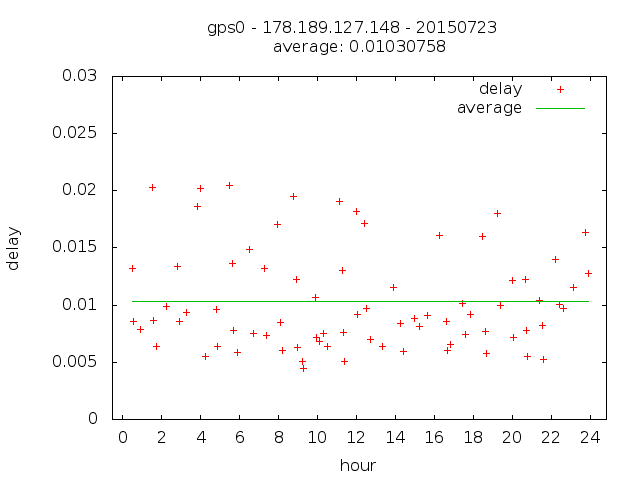
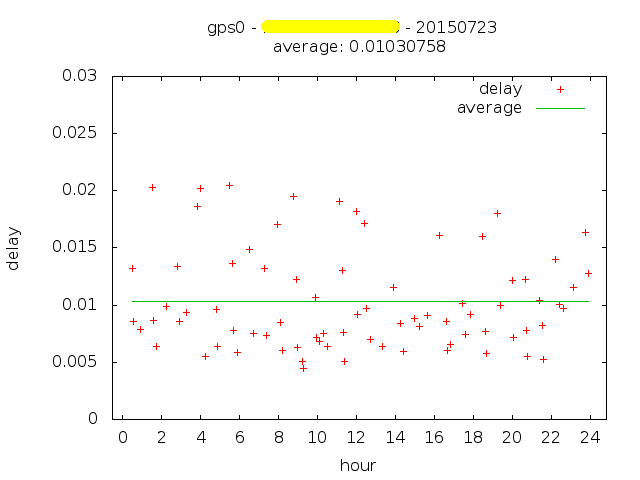
update image and README.md

Changed region(s): [[0.4062, 0.0312, 0.625, 0.0938]]

diff --git a/README.md b/README.md
@@ -74,7 +74,7 @@ this gives an indication how well the receiver performs
 
 the local NTP server is connected with ADSL to the Internet 
 
-###### ntp_shps -a -r -y 0:0.03 -f png 178.189.127.148 0723 
+###### ntp_shps -a -r -y 0:0.03 -f png some.ip.addr 0723 
 
 ![](img/plot_7266.png)
 
@@ -100,7 +100,7 @@ the local NTP server is connected with ADSL to the Internet
 
 #### time difference between two NTP server 
 
-###### ntp_shdiff -a -f png 127.127.28.1 178.189.127.148 0724
+###### ntp_shdiff -a -f png 127.127.28.1 some.ip.addr 0724
 
 ![](img/plot_7381.png)
 
